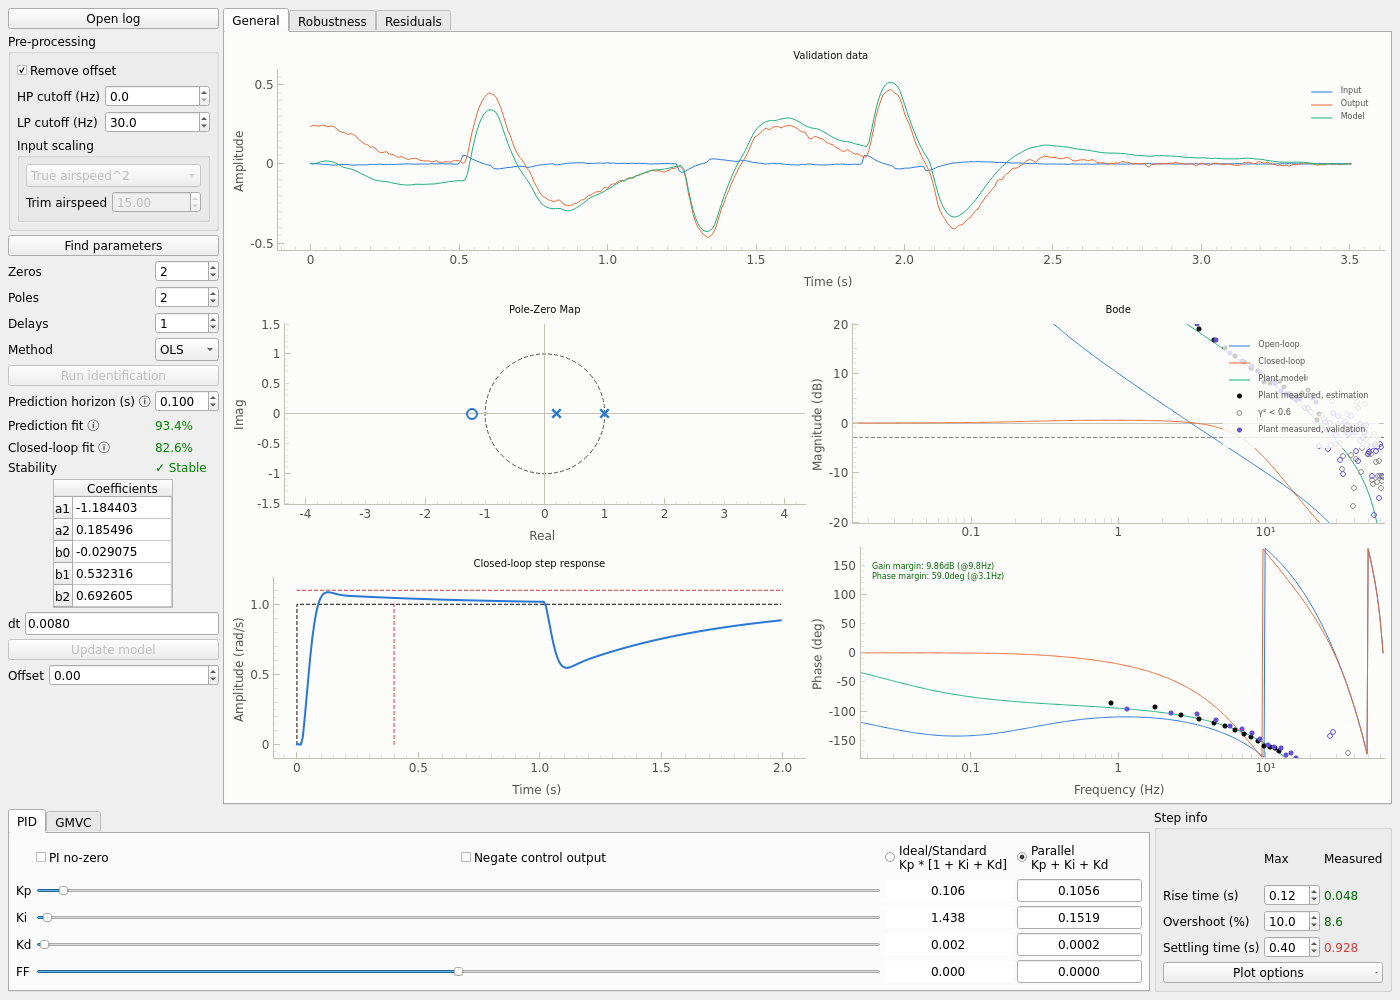
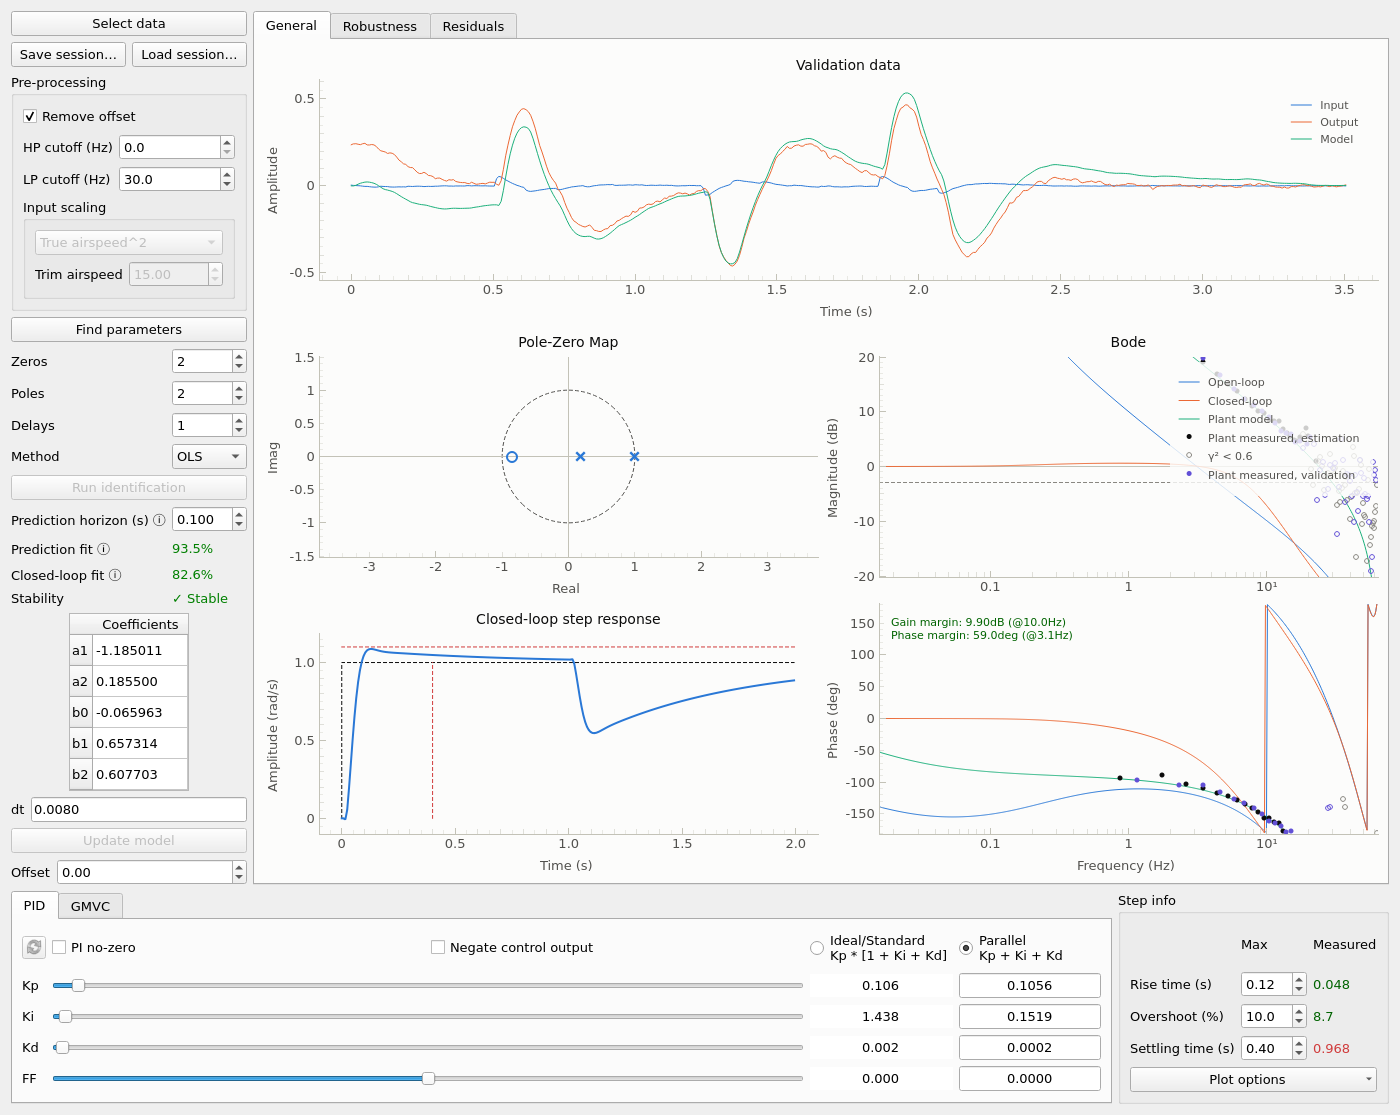
docs(autotune): update the README screenshots
Show the "Select data", session and reload buttons, the "Browse logs"
button, and the group dialog of the sessions.

diff --git a/autotune/README.md b/autotune/README.md
@@ -160,6 +160,8 @@ while they differ from yours.
 *Save session…* writes the state of the tool to a YAML file, and *Load session…* restores
 it. Both let you choose the groups to save or load:
 
+![Session groups](docs/gui_session_dialog.png)
+
 | Group | Content |
 |-------|---------|
 | Data | Log (path relative to the session, absolute path and SHA-256), preset, input and output signals, estimation and validation ranges |
